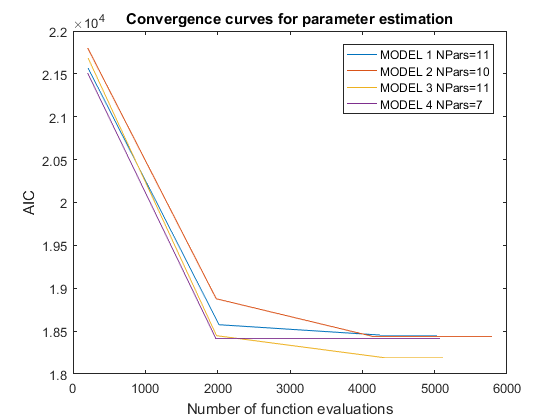
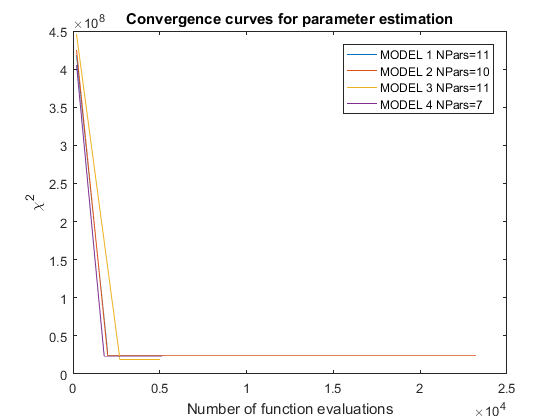
A

diff --git a/Examples/ToggleSwitch/html/toggle_4_3.html b/Examples/ToggleSwitch/html/toggle_4_3.html
@@ -66,7 +66,7 @@ table td { padding:7px 5px; text-align:left; vertical-align:top; border:1px soli
 
 
 
-  </style></head><body><div class="content"><h2>Contents</h2><div><ul><li><a href="#1">Train a family of models</a></li><li><a href="#2">Load default setting</a></li><li><a href="#3">Configure experimental data</a></li><li><a href="#4">Generate multiple models by enforcing different sparsity coeficients.</a></li><li><a href="#5">Generate and fit a family of models</a></li><li><a href="#6">Plot the optimization results and tranjectories from the generated model family</a></li></ul></div><h2 id="1">Train a family of models</h2><pre class="codeinput">clear <span class="string">variables</span>;
+  </style></head><body><div class="content"><h2>Contents</h2><div><ul><li><a href="#1">Train a family of models</a></li><li><a href="#2">Load default setting</a></li><li><a href="#3">Configure experimental data</a></li><li><a href="#4">Generate multiple models by enforcing different sparsity coeficients.</a></li><li><a href="#5">Generate and fit a family of models</a></li><li><a href="#6">Plot the optimization results and trajectories from the generated model family</a></li></ul></div><h2 id="1">Train a family of models</h2><pre class="codeinput">clear <span class="string">variables</span>;
 clc;
 close <span class="string">all</span>;
 noise_pseudo_data=0.05;
@@ -76,37 +76,37 @@ sbl_config.data_file_name = <span class="string">'toggleSwitch_1.csv'</span>;
 sbl_config.exp_idx=1:3;
 </pre><h2 id="4">Generate multiple models by enforcing different sparsity coeficients.</h2><pre class="codeinput">sbl_config.sparsity_vec = [0.15 0.2 0.25 0.3];
 </pre><h2 id="5">Generate and fit a family of models</h2><p>We generate a family of models with SBL and fit with AMIGO+scatter search</p><pre class="codeinput">MODELS=SBL_gen_model_family(sbl_config);
-</pre><pre class="codeoutput">03-Sep-2019 10:32:06 | loop iter: 1, generating SBL data
-03-Sep-2019 10:32:06 | file: toggleSwitch_1.csv was successfully imported | 3  experiments was selected
-03-Sep-2019 10:32:06 | loop iter: 1, running SBL
+</pre><pre class="codeoutput">03-Sep-2019 11:23:18 | loop iter: 1, generating SBL data
+03-Sep-2019 11:23:18 | file: toggleSwitch_1.csv was successfully imported | 3  experiments was selected
+03-Sep-2019 11:23:18 | loop iter: 1, running SBL
 runnging sparsity case: 1/4
 runnging SBL on state: 1/2
-SBL iter: 1/10 took 1.60624 sec
-SBL iter: 2/10 took 5.01585 sec
-SBL iter: 3/10 took 3.67753 sec
-SBL iter: 4/10 took 8.74778 sec
-SBL iter: 5/10 took 6.46558 sec
-SBL iter: 6/10 took 5.00255 sec
-SBL iter: 7/10 took 4.70746 sec
-SBL iter: 8/10 took 3.88769 sec
-SBL iter: 9/10 took 5.23664 sec
-SBL iter: 10/10 took 3.81892 sec
+SBL iter: 1/10 took 1.90461 sec
+SBL iter: 2/10 took 5.43475 sec
+SBL iter: 3/10 took 3.58758 sec
+SBL iter: 4/10 took 8.94788 sec
+SBL iter: 5/10 took 6.46408 sec
+SBL iter: 6/10 took 5.1619 sec
+SBL iter: 7/10 took 4.83261 sec
+SBL iter: 8/10 took 3.82861 sec
+SBL iter: 9/10 took 5.2295 sec
+SBL iter: 10/10 took 3.66573 sec
 runnging SBL on state: 2/2
-SBL iter: 1/10 took 1.03008 sec
-SBL iter: 2/10 took 0.801503 sec
-SBL iter: 3/10 took 0.75989 sec
-SBL iter: 4/10 took 0.736748 sec
-SBL iter: 5/10 took 0.782358 sec
-SBL iter: 6/10 took 0.760229 sec
-SBL iter: 7/10 took 0.769423 sec
-SBL iter: 8/10 took 0.774567 sec
-SBL iter: 9/10 took 0.791096 sec
-SBL iter: 10/10 took 0.792848 sec
-Elapsed time is 0.825374 seconds.
+SBL iter: 1/10 took 0.986343 sec
+SBL iter: 2/10 took 0.811668 sec
+SBL iter: 3/10 took 0.797799 sec
+SBL iter: 4/10 took 0.787172 sec
+SBL iter: 5/10 took 0.825256 sec
+SBL iter: 6/10 took 0.798743 sec
+SBL iter: 7/10 took 0.8043 sec
+SBL iter: 8/10 took 0.78707 sec
+SBL iter: 9/10 took 0.808969 sec
+SBL iter: 10/10 took 0.829289 sec
+Elapsed time is 0.868184 seconds.
 state: x_1 zero_th: 9.49847e-05 dict_num: 6 (0.374298%)
 state: x_2 zero_th: 9.49847e-05 dict_num: 6 (0.747198%)
 ODE simulation OK
-...</pre><h2 id="6">Plot the optimization results and tranjectories from the generated model family</h2><p>The convergence curves are given scatter search. Time courses for each modeled observable are also ploted along with the experimental data.</p><pre class="codeinput">SBL_plotFamilyFit(MODELS);
+...</pre><h2 id="6">Plot the optimization results and trajectories from the generated model family</h2><p>The convergence curves are given scatter search. Time courses for each modeled observable are also ploted along with the experimental data.</p><pre class="codeinput">SBL_plotFamilyFit(MODELS);
 set(gcf, <span class="string">'Units'</span>, <span class="string">'Normalized'</span>, <span class="string">'OuterPosition'</span>, [0, 0.04, 1, 0.96]);
 </pre><img vspace="5" hspace="5" src="toggle_4_3_01.png" alt=""> <img vspace="5" hspace="5" src="toggle_4_3_02.png" alt=""> <p class="footer"><br><a href="http://www.mathworks.com/products/matlab/">Published with MATLAB&reg; R2016b</a><br></p></div><!--
 ##### SOURCE BEGIN #####
@@ -145,7 +145,7 @@ sbl_config.sparsity_vec = [0.15 0.2 0.25 0.3];
 
 MODELS=SBL_gen_model_family(sbl_config);
 
-%% Plot the optimization results and tranjectories from the generated model family 
+%% Plot the optimization results and trajectories from the generated model family 
 % The convergence curves are given scatter search. Time courses for each
 % modeled observable are also ploted along with the experimental
 % data. 

diff --git a/SRC/SBL_plotFamilyFit.m b/SRC/SBL_plotFamilyFit.m
@@ -31,13 +31,13 @@ for i=1:length(MODELS)
     
     if ~isempty(MODELS{i})
         n_par=MODELS{i}{1}.model.n_par;
-        AIC=2*n_par+n_data.*log(MODELS{i}{3}.f);
-        plot(MODELS{i}{3}.neval,AIC);
+        %AIC=2*n_par+n_data.*log(MODELS{i}{3}.f);
+        plot(MODELS{i}{3}.neval,MODELS{i}{3}.f);
         hold on;
         counter=counter+1;
         labels{counter}=['MODEL ' num2str(i) ' NPars=' num2str(n_par)];
     end
-    ylabel('AIC');
+    ylabel('\chi^2');
     xlabel('Number of function evaluations');
 end
 title('Convergence curves for parameter estimation')
